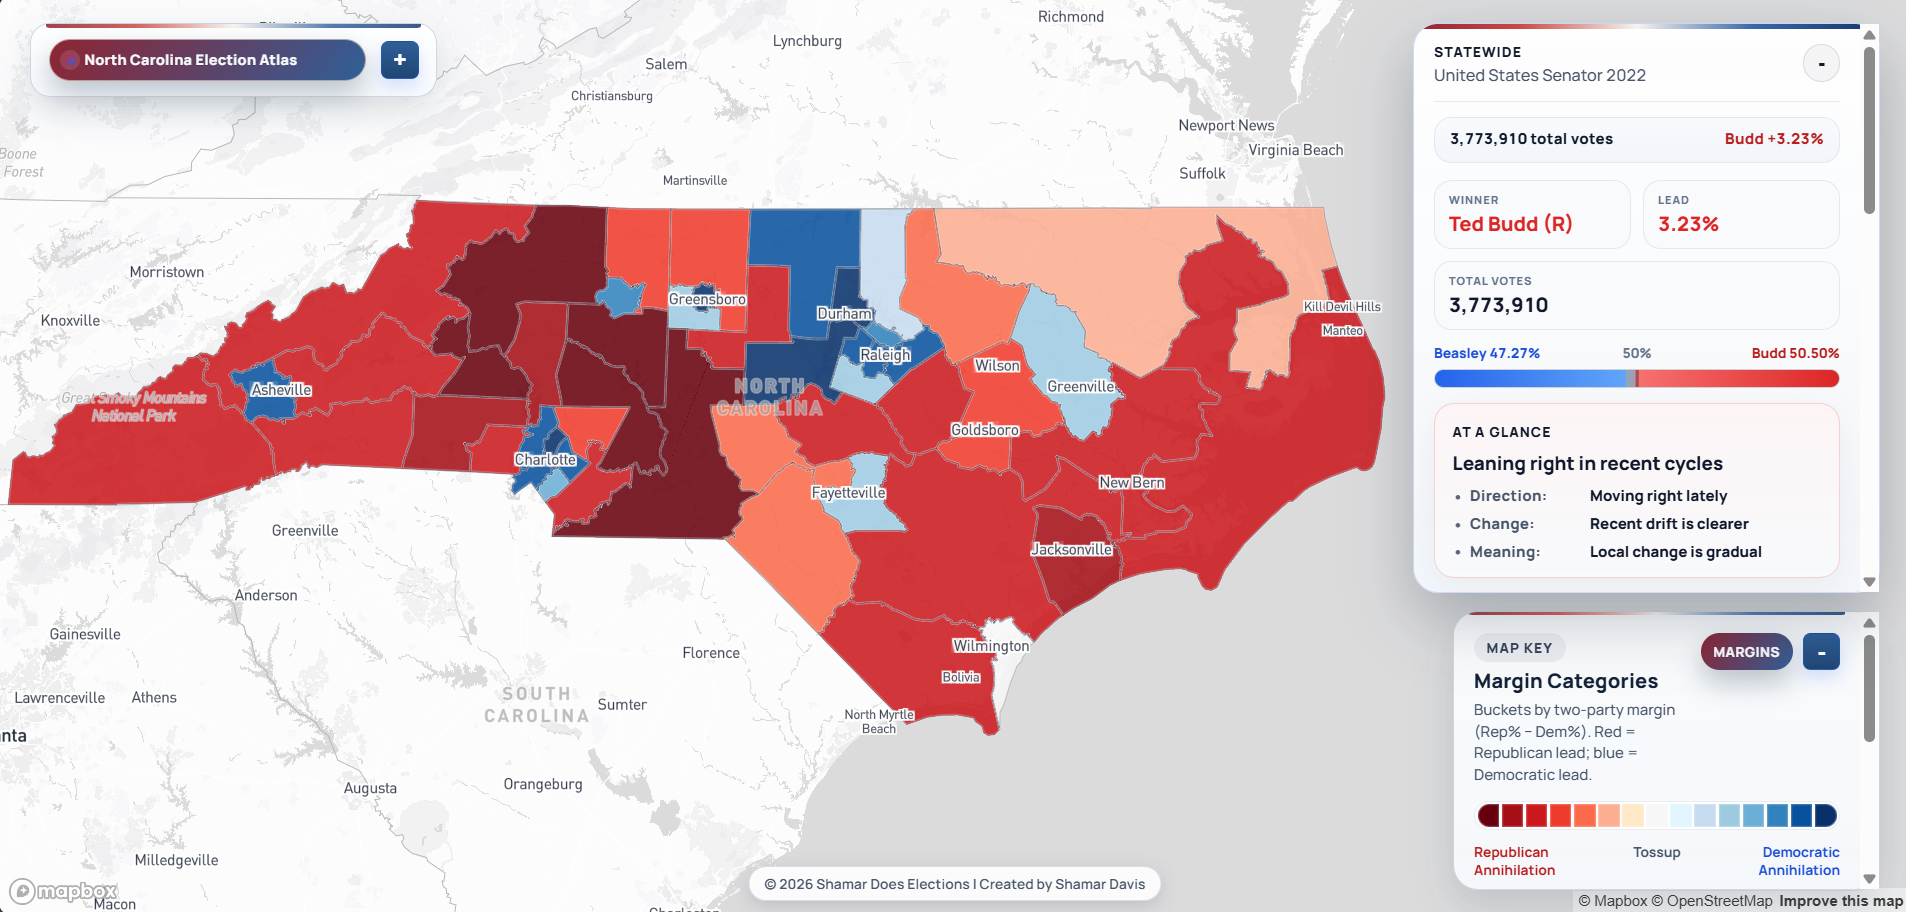
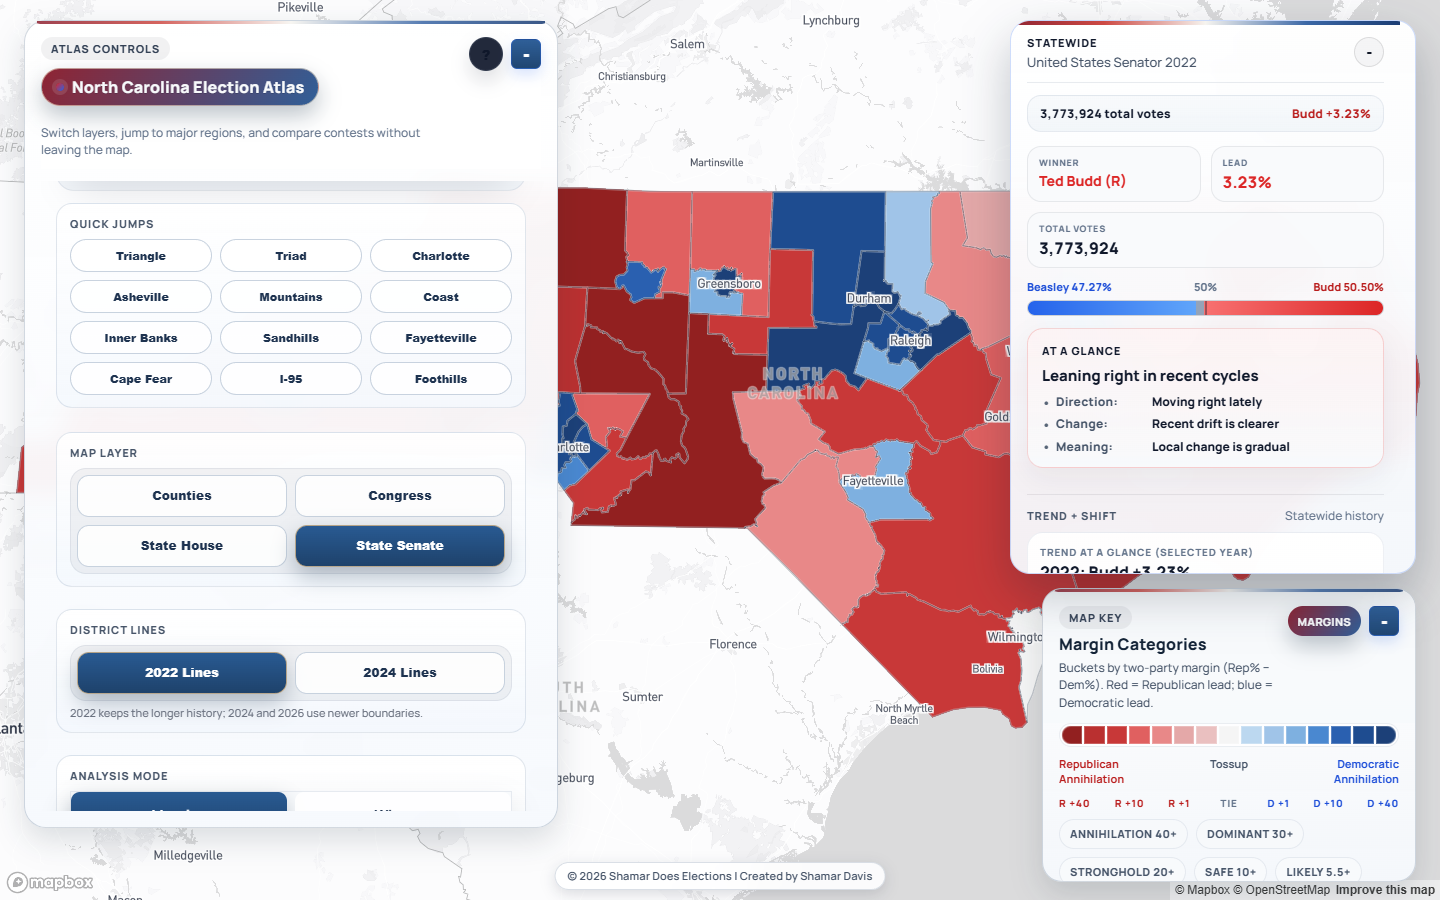
Tune DRA margin palette and refresh README screenshots.
Ship the v16 scarlet/cobalt ramp with clearer light-end and Safe/Stronghold separation, and recapture the five README map shots from the live atlas.

diff --git a/index.html b/index.html
@@ -5,7 +5,7 @@
     // Resolve the initial legend palette before first paint. The full palette
     // initializer below still owns persistence and interactive switching.
     try {
-      const initialPalette = window.localStorage?.getItem('nc-atlas-partisan-palette-v3') === 'atlas'
+      const initialPalette = window.localStorage?.getItem('nc-atlas-partisan-palette-v4') === 'atlas'
         ? 'atlas'
         : 'dra';
       document.documentElement.setAttribute('data-initial-partisan-palette', initialPalette);
@@ -32,21 +32,22 @@
     --initial-margin-15: #08306b;
   }
   html[data-initial-partisan-palette="dra"] {
-    --initial-margin-1: #68000c;
-    --initial-margin-2: #940016;
-    --initial-margin-3: #b91227;
-    --initial-margin-4: #d52b3f;
-    --initial-margin-5: #f16672;
-    --initial-margin-6: #f58f96;
-    --initial-margin-7: #f8bec2;
-    --initial-margin-8: #f7f7f7;
-    --initial-margin-9: #b6d5f5;
-    --initial-margin-10: #78afe9;
-    --initial-margin-11: #4699e5;
-    --initial-margin-12: #1f75bd;
-    --initial-margin-13: #0863a8;
-    --initial-margin-14: #064a80;
-    --initial-margin-15: #04345c;
+    /* v15 light end + wider Safe→Stronghold gap (esp. Dem). */
+    --initial-margin-1: #922020;
+    --initial-margin-2: #BA3030;
+    --initial-margin-3: #C83838;
+    --initial-margin-4: #E06060;
+    --initial-margin-5: #E88888;
+    --initial-margin-6: #E4A8A8;
+    --initial-margin-7: #EAC0C0;
+    --initial-margin-8: #F5F5F5;
+    --initial-margin-9: #BCD8F0;
+    --initial-margin-10: #A0C4E8;
+    --initial-margin-11: #7EB0E0;
+    --initial-margin-12: #4A88D0;
+    --initial-margin-13: #2A60B0;
+    --initial-margin-14: #1E4C90;
+    --initial-margin-15: #1C4078;
   }
   /* Mobile Styles - Enhanced for touch and small screens */
   @media (max-width: 768px) {
@@ -9274,22 +9275,24 @@ body.focus-active #hover-tooltip[data-context="preview"] {
 <body>
 <!-- Move JS to script block -->
 <script>
+// Light end from v15; Safe lighter and Stronghold deeper so they don't collide
+// (Dem Safe/Stronghold were especially close).
 const DRA_PARTISAN_COLORS = Object.freeze({
-  r40: '#68000c',
-  r30: '#940016',
-  r20: '#b91227',
-  r10: '#d52b3f',
-  r5_5: '#f16672',
-  r1: '#f58f96',
-  r0_5: '#f8bec2',
-  tie: '#f7f7f7',
-  d0_5: '#b6d5f5',
-  d1: '#78afe9',
-  d5_5: '#4699e5',
-  d10: '#1f75bd',
-  d20: '#0863a8',
-  d30: '#064a80',
-  d40: '#04345c'
+  r40: '#922020',
+  r30: '#BA3030',
+  r20: '#C83838',
+  r10: '#E06060',
+  r5_5: '#E88888',
+  r1: '#E4A8A8',
+  r0_5: '#EAC0C0',
+  tie: '#F5F5F5',
+  d0_5: '#BCD8F0',
+  d1: '#A0C4E8',
+  d5_5: '#7EB0E0',
+  d10: '#4A88D0',
+  d20: '#2A60B0',
+  d30: '#1E4C90',
+  d40: '#1C4078'
 });
 
 // Accessibility: Color Blind Mode Toggle
@@ -9335,13 +9338,13 @@ document.addEventListener('DOMContentLoaded', function() {
       ? 'Use the original atlas colors'
       : 'Use DRA-inspired colors with the existing 15 margin tiers';
   }
-  const DRA_PALETTE_STORAGE_KEY = 'nc-atlas-partisan-palette-v3';
+  const DRA_PALETTE_STORAGE_KEY = 'nc-atlas-partisan-palette-v4';
   try {
     if (window.localStorage) {
-      // Retire older preference versions once so DRA becomes the new default.
-      // Atlas remains available, and a new explicit Atlas choice persists.
+      // Retire older preference versions once so the new hybrid palette is picked up.
       window.localStorage.removeItem('nc-atlas-partisan-palette');
       window.localStorage.removeItem('nc-atlas-partisan-palette-v2');
+      window.localStorage.removeItem('nc-atlas-partisan-palette-v3');
       if (window.localStorage.getItem(DRA_PALETTE_STORAGE_KEY) !== 'atlas') {
         document.body.classList.add('dra-palette');
       }
@@ -10467,7 +10470,7 @@ document.addEventListener('DOMContentLoaded', function() {
     // Cache destroyer token for static data requests.
     // Bump this value when you want browsers/CDNs to fetch fresh files immediately.
     const DATA_CACHE_BUSTER = '2026-07-18-59';
-    const APP_BUILD_ID = '2026-07-18-26';
+    const APP_BUILD_ID = '2026-07-18-palette-v16';
 
     function withCacheBuster(path) {
       return window.AtlasData.withCacheBuster(path, DATA_CACHE_BUSTER);
@@ -13911,14 +13914,13 @@ document.addEventListener('DOMContentLoaded', function() {
         draPartisanPresentationActive &&
         currentView === 'counties';
       if (draPartisanPresentationActive) {
-        // Keep the shared DRA table at the same perceived weight across
-        // congressional and state legislative district views.
-        houseBaseOpacity = districtBaseOpacity;
-        senateBaseOpacity = districtBaseOpacity;
+        // Opaque fills: translucent reds brown-out over the gray basemap.
+        districtBaseOpacity = 1;
+        houseBaseOpacity = 1;
+        senateBaseOpacity = 1;
       }
       if (draCountyPresentationActive && !precinctsActuallyVisible) {
-        // Counties use that same blend unless precincts need to remain primary.
-        countyBaseOpacity = districtBaseOpacity;
+        countyBaseOpacity = 1;
       }
 
       if (map.getLayer('county-fill')) {
@@ -13935,9 +13937,9 @@ document.addEventListener('DOMContentLoaded', function() {
       }
       if (map.getLayer('county-stroke-casing')) {
         try {
-          map.setPaintProperty('county-stroke-casing', 'line-opacity', draCountyPresentationActive
-            ? ['interpolate', ['linear'], ['zoom'], 4, 0.30, 6, 0.38, 8, 0.50, 10, 0.62, 12, 0.76]
-            : 0);
+          // Do not use the pale DRA casing halo — it washes scarlet fills into muddy pink/brown
+          // at statewide zoom where casing width is large relative to county area.
+          map.setPaintProperty('county-stroke-casing', 'line-opacity', 0);
         } catch (_) {}
       }
       if (map.getLayer('district-fill')) {
@@ -33840,16 +33842,18 @@ document.addEventListener('DOMContentLoaded', function() {
     function colorForWinnerMode(winner) {
       // winner: 'R' | 'D' | 'T'
       const cb = isColorblindModeActive();
-      if (winner === 'R') return cb ? '#d97706' : (isDraPaletteActive() ? DRA_PARTISAN_COLORS.r10 : '#dc2626');
-      if (winner === 'D') return cb ? '#2563eb' : (isDraPaletteActive() ? DRA_PARTISAN_COLORS.d10 : '#2563eb');
+      // Solid winners use the dark partisan anchors so fills stay readable
+      // after the margin ramp was softened toward DRA-style RWB.
+      if (winner === 'R') return cb ? '#d97706' : (isDraPaletteActive() ? DRA_PARTISAN_COLORS.r40 : '#dc2626');
+      if (winner === 'D') return cb ? '#2563eb' : (isDraPaletteActive() ? DRA_PARTISAN_COLORS.d40 : '#2563eb');
       return isDraPaletteActive() && !cb ? DRA_PARTISAN_COLORS.tie : '#9ca3af';
     }
 
     function colorForFlipMode(toWinner) {
       // toWinner: 'R' | 'D' | 'T'
       const cb = isColorblindModeActive();
-      if (toWinner === 'R') return cb ? '#d97706' : (isDraPaletteActive() ? DRA_PARTISAN_COLORS.r10 : '#dc2626');
-      if (toWinner === 'D') return isDraPaletteActive() && !cb ? DRA_PARTISAN_COLORS.d10 : '#2563eb';
+      if (toWinner === 'R') return cb ? '#d97706' : (isDraPaletteActive() ? DRA_PARTISAN_COLORS.r40 : '#dc2626');
+      if (toWinner === 'D') return isDraPaletteActive() && !cb ? DRA_PARTISAN_COLORS.d40 : '#2563eb';
       return isDraPaletteActive() && !cb ? DRA_PARTISAN_COLORS.tie : '#e2e8f0';
     }
 

diff --git a/tools/capture_readme_screenshots.js b/tools/capture_readme_screenshots.js
@@ -1,0 +1,149 @@
+/**
+ * Capture README screenshots with the current DRA palette.
+ * Usage: node tools/capture_readme_screenshots.js
+ * Expects static server on SMOKE_PORT (default 4173).
+ */
+const fs = require('fs');
+const path = require('path');
+const { chromium } = require('playwright');
+
+const HOST = '127.0.0.1';
+const PORT = Number(process.env.SMOKE_PORT || 4173);
+const URL = `http://${HOST}:${PORT}/index.html?v=readme-shots-${Date.now()}`;
+const outDir = path.resolve(__dirname, '..', 'Screenshots');
+const APP_READY_TIMEOUT = 180_000;
+
+const systemChromeExeCandidates = [
+  path.join(process.env.ProgramFiles || 'C:\\Program Files', 'Google', 'Chrome', 'Application', 'chrome.exe'),
+  path.join(process.env['ProgramFiles(x86)'] || 'C:\\Program Files (x86)', 'Google', 'Chrome', 'Application', 'chrome.exe')
+];
+const systemChromeExe = systemChromeExeCandidates.find((p) => fs.existsSync(p)) || null;
+
+function wait(ms) {
+  return new Promise((resolve) => setTimeout(resolve, ms));
+}
+
+async function waitForAtlasReady(page) {
+  await page.waitForSelector('#map .mapboxgl-canvas', { timeout: APP_READY_TIMEOUT });
+  await page.waitForSelector('#contestSelect', { timeout: APP_READY_TIMEOUT });
+  await page.waitForFunction(() => {
+    const sel = document.getElementById('contestSelect');
+    return !!(sel && Array.from(sel.options || []).some((o) => (o?.value || '').trim()));
+  }, { timeout: APP_READY_TIMEOUT });
+}
+
+async function selectContest(page, contestValue) {
+  await page.selectOption('#contestSelect', contestValue);
+  await page.waitForFunction(
+    (v) => (
+      document.getElementById('contestSelect')?.value === v &&
+      typeof lastCompletedContestSelection !== 'undefined' &&
+      lastCompletedContestSelection === v
+    ),
+    contestValue,
+    { timeout: APP_READY_TIMEOUT }
+  );
+  await wait(1500);
+}
+
+async function setView(page, testId) {
+  await page.locator(`[data-testid="${testId}"]`).click();
+  await wait(900);
+}
+
+async function prepareCleanUi(page) {
+  await page.evaluate(() => {
+    document.body.classList.add('dra-palette');
+    const help = document.getElementById('help-modal');
+    if (help) help.style.display = 'none';
+    const helpBackdrop = document.getElementById('help-backdrop');
+    if (helpBackdrop) helpBackdrop.style.display = 'none';
+    try {
+      localStorage.setItem('nc-atlas-partisan-palette-v4', 'dra');
+    } catch (_) {}
+  });
+}
+
+async function shot(page, filename) {
+  const dest = path.join(outDir, filename);
+  await page.screenshot({ path: dest, type: 'png' });
+  console.log(`wrote ${dest}`);
+}
+
+async function main() {
+  if (!fs.existsSync(outDir)) fs.mkdirSync(outDir, { recursive: true });
+
+  const browser = await chromium.launch({
+    headless: true,
+    ...(systemChromeExe ? { executablePath: systemChromeExe } : {})
+  });
+
+  try {
+    const page = await browser.newPage({
+      viewport: { width: 1440, height: 900 }
+    });
+    page.setDefaultTimeout(APP_READY_TIMEOUT);
+    page.on('console', (msg) => {
+      if (msg.type() === 'error') console.log(`[page:${msg.type()}] ${msg.text()}`);
+    });
+
+    await page.goto(URL, { waitUntil: 'domcontentloaded' });
+    await waitForAtlasReady(page);
+    await prepareCleanUi(page);
+
+    // 1) Counties — 2024 Presidential
+    await setView(page, 'view-counties');
+    await selectContest(page, 'president_2024');
+    await wait(1200);
+    await shot(page, 'AtlasLatest2024PresCounty.png');
+
+    // 2) Congress — 2020 Presidential
+    await setView(page, 'view-congress');
+    await selectContest(page, 'president_2020');
+    await wait(1800);
+    await shot(page, 'Latest2020PresCongress.png');
+
+    // 3) State House — 2024 Presidential
+    await setView(page, 'view-state-house');
+    await selectContest(page, 'president_2024');
+    await wait(1800);
+    await shot(page, '2024StateHousePres.png');
+
+    // 4) State Senate — 2022 US Senate
+    await setView(page, 'view-state-senate');
+    await selectContest(page, 'us_senate_2022');
+    await wait(1800);
+    await shot(page, '2022USSenStatSen.png');
+
+    // 5) Precinct zoom — Forsyth / Triad
+    await setView(page, 'view-counties');
+    await selectContest(page, 'president_2024');
+    const precinctBtn = page.locator('button[aria-label="Toggle precinct overlay"]');
+    if (await precinctBtn.count()) {
+      const pressed = await precinctBtn.first().getAttribute('aria-pressed');
+      if (pressed !== 'true') await precinctBtn.first().click();
+      await wait(800);
+    }
+    const triadBtn = page.locator('button[data-region-jump="triad"], button[aria-label="Jump to triad"]');
+    if (await triadBtn.count()) {
+      await triadBtn.first().click();
+      await wait(2500);
+    }
+    const flyInput = page.locator('#desktop-fly-search');
+    if (await flyInput.count()) {
+      await flyInput.fill('Forsyth');
+      await flyInput.press('Enter');
+      await wait(2800);
+    }
+    await shot(page, 'ForsythPrecinctZoom.png');
+
+    console.log('done');
+  } finally {
+    await browser.close();
+  }
+}
+
+main().catch((err) => {
+  console.error(err);
+  process.exit(1);
+});
